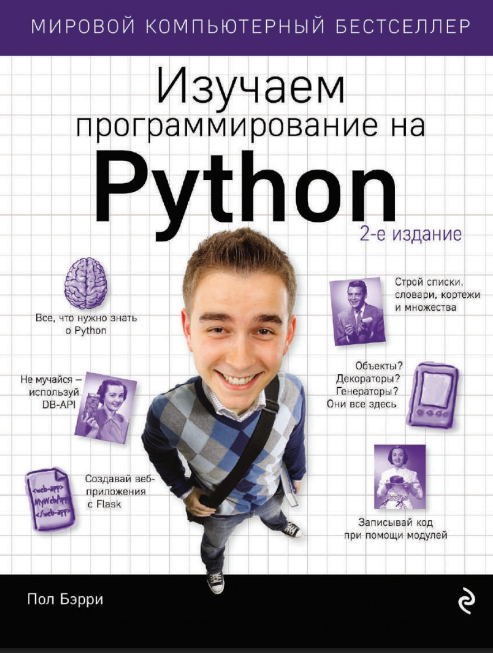
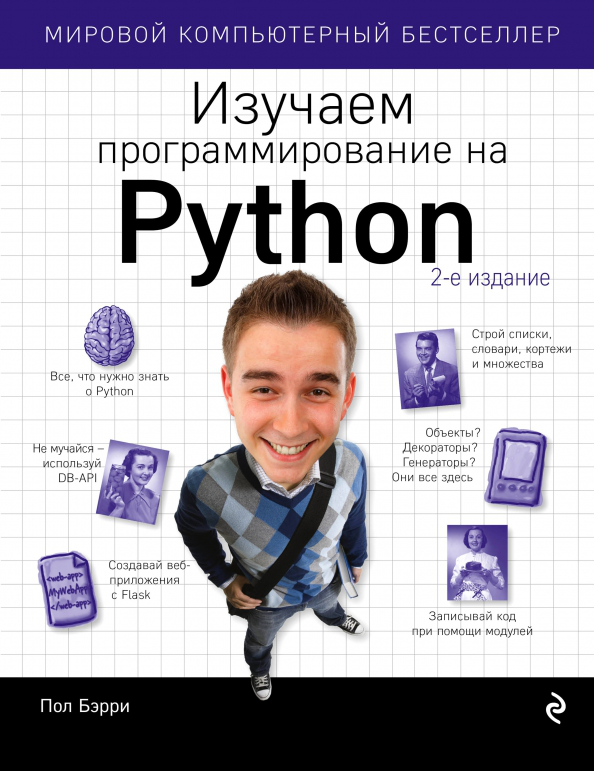
eighth commit: all covers added

Changed region(s): [[0.0, 0.0, 1.0, 0.9495], [0.0, 0.9801, 1.0, 1.0], [0.0, 0.3982, 0.0304, 0.4288]]

diff --git a/templates/book_detail.html b/templates/book_detail.html
@@ -4,12 +4,12 @@
 <link rel="stylesheet" href="{{ url_for('static', filename='css/styles.css') }}">
 
 <h1>{{ book.title }}</h1>
-<img src="" width="380" height="550" alt="{{ book.title }}">
+<img src="{{ url_for('news_api.static', filename=book.image_path) }}" width="380" height="550" alt="{{ book.title }}">
 <div>{{ book.content }}</div>
 <div>Автор - {{ book.user.name }}</div>
 <div>Дата написания - {{ book.created_date }}</div>
 <div>
-    <a href="{{ url_for('static', filename=book.file_path) }}" class="btn btn-primary" download>
+    <a href="{{ url_for('news_api.static', filename=book.image_path) }}" class="btn btn-primary" download>
         Скачать книгу
     </a>
 </div>

diff --git a/templates/index.html b/templates/index.html
@@ -10,7 +10,7 @@
       {% for item in news %}
       <td class='book-item'>
         <img
-          href = "{{url_for('static', filename="{{image.path}}")}}"
+          src = "{{url_for('news_api.static', filename=item.image_path)}}"
           width="380"
           height="550"
           alt="{{ item.title }}"

diff --git a/data/news.py b/data/news.py
@@ -16,6 +16,7 @@ class News(SqlAlchemyBase, SerializerMixin):
     created_date = sqlalchemy.Column(sqlalchemy.Date, default=datetime.date.today)
     is_private = sqlalchemy.Column(sqlalchemy.Boolean, default=True)
     file_path = sqlalchemy.Column(sqlalchemy.String, nullable=False)
+    image_path = sqlalchemy.Column(sqlalchemy.String, nullable=False)
 
     user_id = sqlalchemy.Column(sqlalchemy.Integer,
                                 sqlalchemy.ForeignKey("users.id"))

diff --git a/data/news_api.py b/data/news_api.py
@@ -6,7 +6,8 @@ from .news import News
 blueprint = flask.Blueprint(
     'news_api',
     __name__,
-    template_folder='templates'
+    template_folder='templates',
+    static_folder='static'
 )
 
 

diff --git a/main.py b/main.py
@@ -43,7 +43,6 @@ def logout():
 
 
 @app.route('/')
-@app.route("/")
 def index():
     db_sess = db_session.create_session()
     if current_user.is_authenticated:
